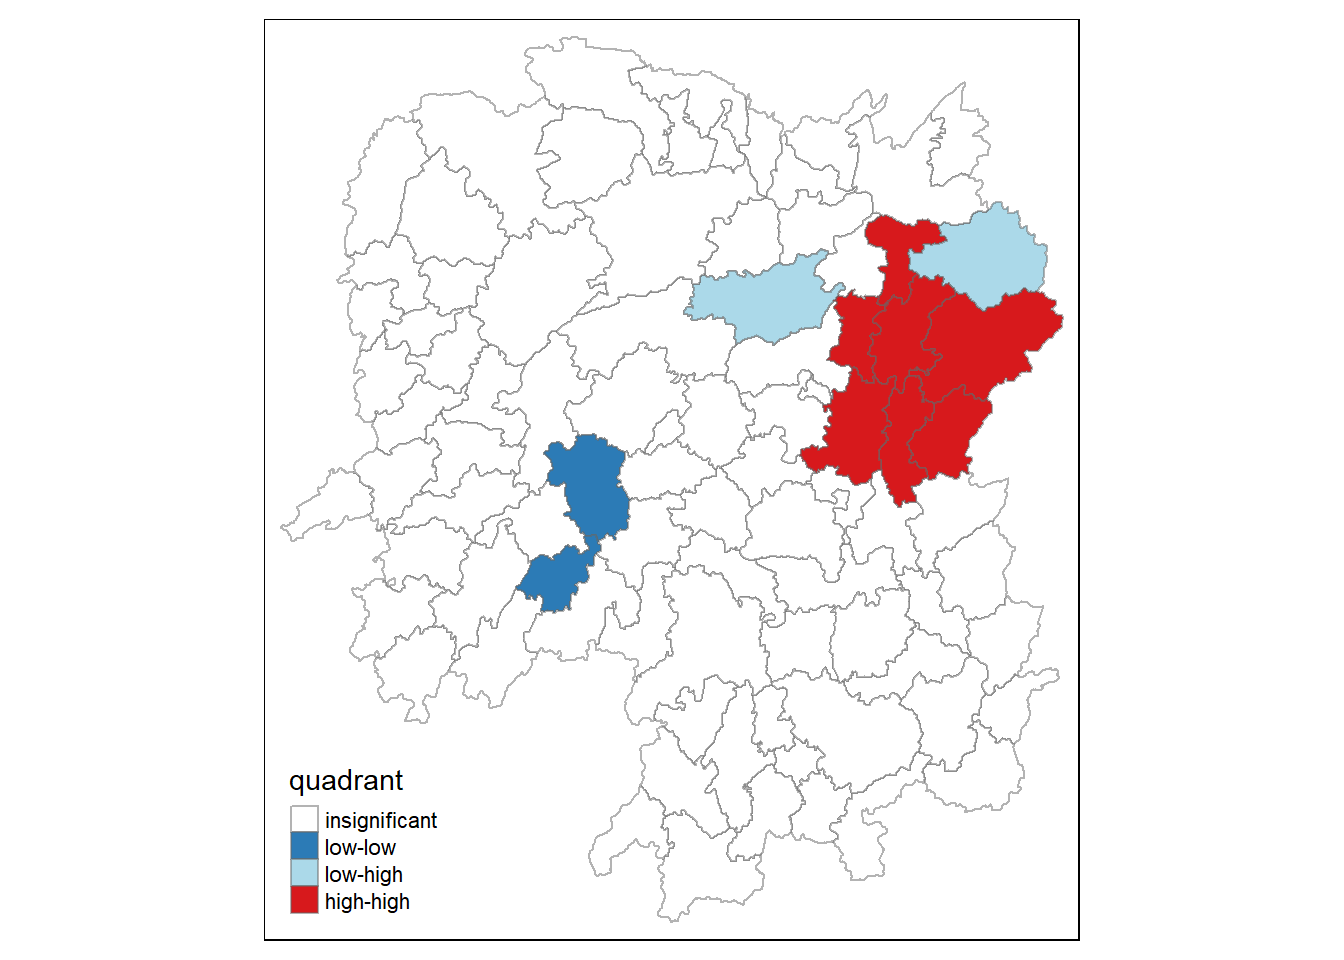
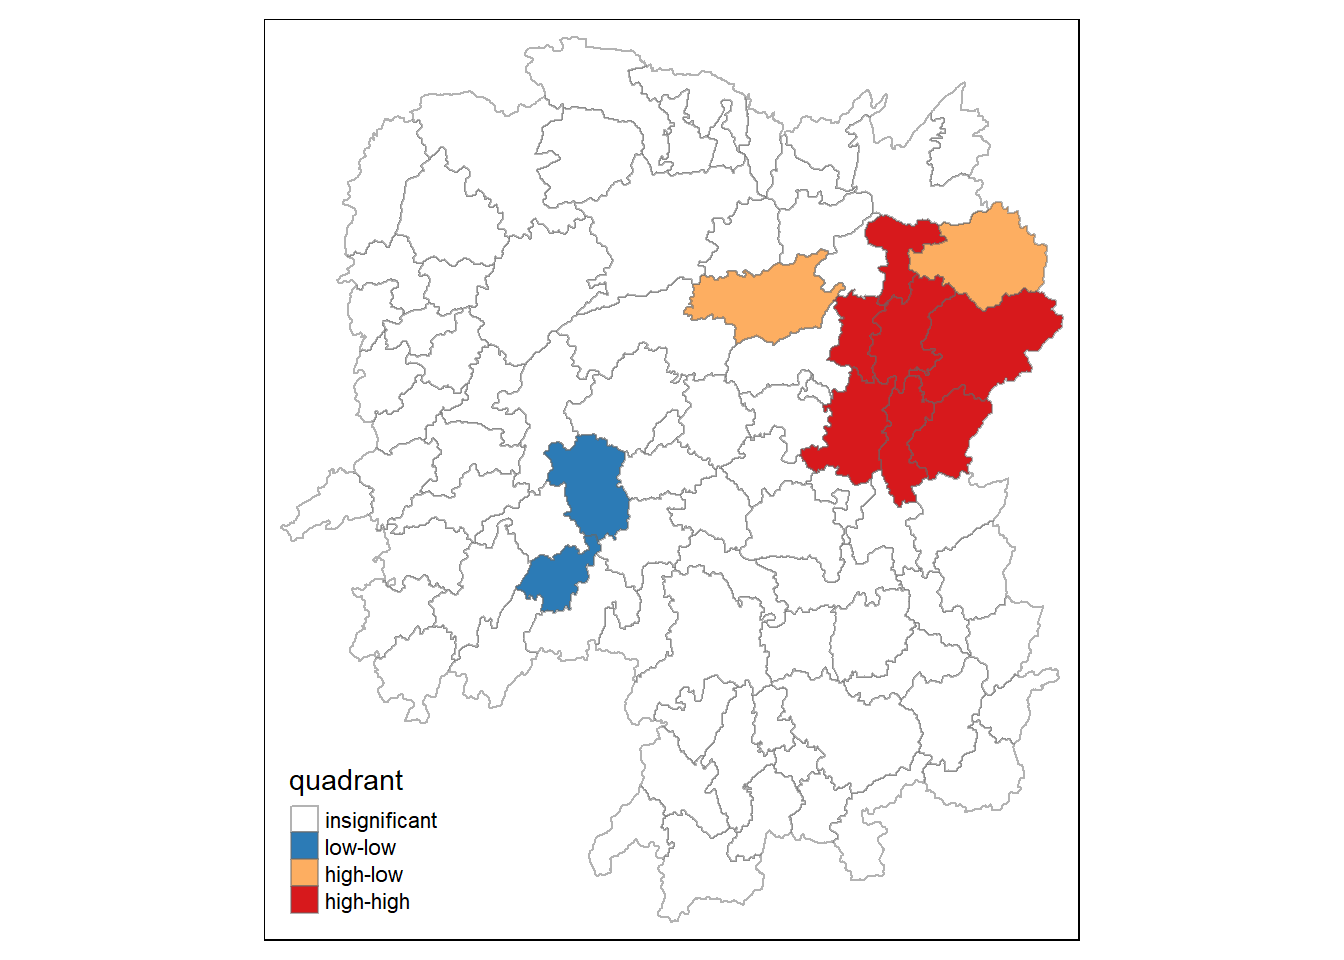
commit after editing hands-on 2b&c

Changed region(s): [[0.5, 0.25, 0.625, 0.375], [0.6562, 0.2188, 0.7812, 0.3438], [0.2188, 0.875, 0.3125, 0.9375]]

diff --git a/_site/Hands-on_Ex/Hands-on_Ex02B/Hands-on_Ex02B&C.html b/_site/Hands-on_Ex/Hands-on_Ex02B/Hands-on_Ex02B&C.html
@@ -380,7 +380,7 @@ code span.wa { color: #60a0b0; font-weight: bold; font-style: italic; } /* Warni
     <div>
     <div class="quarto-title-meta-heading">Modified</div>
     <div class="quarto-title-meta-contents">
-      <p class="date-modified">November 23, 2023</p>
+      <p class="date-modified">November 24, 2023</p>
     </div>
   </div>
     
@@ -572,6 +572,7 @@ W 88 7744 88 37.86334 365.9147</code></pre>
 <p>In this section, we will learn how to perform Moran’s I statistics testing by using <a href="https://r-spatial.github.io/spdep/reference/moran.test.html"><em>moran.test()</em></a> of <strong>spdep</strong>.</p>
 <section id="marons-i-test" class="level3">
 <h3 class="anchored" data-anchor-id="marons-i-test">4.3.1 Maron’s I test</h3>
+<p>Moran’s I describe how features differ from values in the study area as a whole.</p>
 <p>The code chunk below performs Moran’s I statistical testing using <a href="https://r-spatial.github.io/spdep/reference/moran.test.html"><em>moran.test()</em></a> of <strong>spdep</strong>.</p>
 <div class="cell">
 <div class="sourceCode cell-code" id="cb13"><pre class="sourceCode r code-with-copy"><code class="sourceCode r"><span id="cb13-1"><a href="#cb13-1" aria-hidden="true" tabindex="-1"></a><span class="fu">moran.test</span>(hunan<span class="sc">$</span>GDPPC, </span>
@@ -595,20 +596,25 @@ Moran I statistic       Expectation          Variance
 <blockquote class="blockquote">
 <p>Question: What statistical conclusion can you draw from the output above?</p>
 </blockquote>
-<div class="callout-note callout callout-style-default callout-captioned">
+<div class="callout-tip callout callout-style-default callout-captioned">
 <div class="callout-header d-flex align-content-center">
 <div class="callout-icon-container">
 <i class="callout-icon"></i>
 </div>
 <div class="callout-caption-container flex-fill">
-Note
+Learning Points
 </div>
 </div>
 <div class="callout-body-container callout-body">
-<p>The Moran’s I statistic is a value that ranges from -1 (indicating perfect dispersion) to +1 (perfect correlation). A value near 0 indicates a random spatial pattern. In this case, the Moran’s I value is approximately 0.30 which suggests a moderate positive spatial autocorrelation.</p>
-<p>Given the p-value of 1.095e-06, which is much smaller than 0.05, there is a strong evidence to reject the null hypothesis of no spatial autocorrelation. Thus, suggesting there is a statistically significant positive spatial autocorrelation.This means that areas with similar values of GDPPC are more likely to be located near each other than would be expected if the locations were randomly distributed.</p>
+<p>Moran I (z value) is:</p>
+<ul>
+<li><p>positive (I&gt;0): Clustered, observations tend to be similar;</p></li>
+<li><p>negative (I&lt;0): Dispersed, observations tend to be dissimilar;</p></li>
+<li><p>approximately 0: observations are arrange randomly over space.</p></li>
+</ul>
 </div>
 </div>
+<p>Given the p-value of 1.095e-06, is much smaller than 0.05, there is a strong evidence to reject the null hypothesis of no spatial autocorrelation. Thus, suggesting there is a statistically significant positive spatial autocorrelation.This means that areas with similar values of GDPPC are more likely to be located near each other than would be expected if the locations were randomly distributed.</p>
 <section id="computing-monte-carlo-morans-i" class="level4">
 <h4 class="anchored" data-anchor-id="computing-monte-carlo-morans-i">4.3.1.1 Computing Monte Carlo Moran’s I</h4>
 <p>The code chunk below performs permutation test for Moran’s I statistic by using <a href="https://r-spatial.github.io/spdep/reference/moran.mc.html"><em>moran.mc()</em></a> of <strong>spdep</strong>. A total of 1000 simulation will be performed.</p>
@@ -632,20 +638,10 @@ statistic = 0.30075, observed rank = 1000, p-value = 0.001
 alternative hypothesis: greater</code></pre>
 </div>
 </div>
+<blockquote class="blockquote">
 <p>Question: What statistical conclusion can you draw from the output above?</p>
-<div class="callout-note callout callout-style-default callout-captioned">
-<div class="callout-header d-flex align-content-center">
-<div class="callout-icon-container">
-<i class="callout-icon"></i>
-</div>
-<div class="callout-caption-container flex-fill">
-Note
-</div>
-</div>
-<div class="callout-body-container callout-body">
-<p>Given that the p-value is less than 0.05, we would reject the alternative hypothesis, which suggests that there is a greater level of spatial autocorrelation than would be expected by chance. This reinforces the previous conclusion that the GDPPC is not randomly distributed across the studied area, but rather exhibits significant positive spatial autocorrelation.</p>
-</div>
-</div>
+</blockquote>
+<p>Given that the p-value is less than 0.05, we would reject the null hypothesis, which suggests that there is a no spatial pattern. This reinforces the previous conclusion that the GDPPC is not randomly distributed across the studied area, but rather exhibits significant positive spatial autocorrelation.</p>
 </section>
 <section id="visualising-monte-carlo-morans-i" class="level4">
 <h4 class="anchored" data-anchor-id="visualising-monte-carlo-morans-i">4.3.1.2 Visualising Monte Carlo Moran’s I</h4>
@@ -703,7 +699,7 @@ Note
 </section>
 <section id="global-spatial-autocorrelation-gearys" class="level2">
 <h2 class="anchored" data-anchor-id="global-spatial-autocorrelation-gearys">4.4 Global Spatial Autocorrelation: Geary’s</h2>
-<p>In this section, we will learn how to perform Geary’s c statistics testing by using appropriate functions of <strong>spdep</strong> package.</p>
+<p>In this section, we will learn how to perform Geary’s c statistics testing by using appropriate functions of <strong>spdep</strong> package. Geary’s C describes how features differ from their immediate neighbours.</p>
 <section id="gearys-c-test" class="level3">
 <h3 class="anchored" data-anchor-id="gearys-c-test">4.3.1 Geary’s C test</h3>
 <p>The code chunk below performs Geary’s C test for spatial autocorrelation by using <a href="https://r-spatial.github.io/spdep/reference/geary.test.html"><em>geary.test()</em></a> of <strong>spdep</strong>.</p>
@@ -736,11 +732,15 @@ Learning Points
 </div>
 </div>
 <div class="callout-body-container callout-body">
-<p>The Geary C statistic ranges from 0 to 2, where:</p>
-<p>A value of 1 suggests no spatial autocorrelation. A value less than 1 indicates positive spatial autocorrelation (similarity between neighboring locations). A value greater than 1 indicates negative spatial autocorrelation (dissimilarity between neighboring locations).</p>
+<p>Geary c (Z value) is:</p>
+<ul>
+<li><p>Large c value (&gt;1): Dispersed, observations tend to be dissimilar;</p></li>
+<li><p>Small c value (&lt;1): Clustered, observations tend to be similar;</p></li>
+<li><p>c = 1: observations are arranged randomly over space.</p></li>
+</ul>
 </div>
 </div>
-<p>Given that the Geary C statistic (0.6907223) is less than 1, suggests positive spatial autocorrelation. This means that neighbouring areas tend to more similar in terms of GDPCC.</p>
+<p>Given that the Geary C statistic (0.6907223) is less than 1, suggests that neighbouring areas tend to more similar in terms of GDPCC.</p>
 <p>The p-values is also very small, less than 0.05, thus we would reject the null hypothesis of no spatial autocorrelation and conclude that there is statistically significant evidence of positive spatial autocorrelation in the data.</p>
 <section id="computing-monte-carlo-gearys-c" class="level4">
 <h4 class="anchored" data-anchor-id="computing-monte-carlo-gearys-c">4.3.1.1 Computing Monte Carlo Geary’s C</h4>
@@ -766,6 +766,7 @@ alternative hypothesis: greater</code></pre>
 <blockquote class="blockquote">
 <p>Question: What statistical conclusion can you draw from the output above?</p>
 </blockquote>
+<p>The p-values of 0.001 is less than 0.05, thus we would reject the null hypothesis of no spatial autocorrelation and conclude that there is statistically significant evidence of positive spatial autocorrelation in the data.</p>
 </section>
 <section id="visualising-the-monte-carlo-gearys-c" class="level4">
 <h4 class="anchored" data-anchor-id="visualising-the-monte-carlo-gearys-c">4.3.1.2 Visualising the Monte Carlo Geary’s C</h4>
@@ -815,7 +816,7 @@ alternative hypothesis: greater</code></pre>
 <p><img src="Hands-on_Ex02B-C_files/figure-html/unnamed-chunk-17-1.png" class="img-fluid" width="672"></p>
 </div>
 </div>
-<p>By plotting the output, it might not allow us to provide a complete interpretation. This is because not all autocorrelation values are statistically significant. Hence, it is important for us to examine the full analysis report by printing out the analysis results as in the code chunk below.</p>
+<p>By plotting the output, it might not provide us a complete interpretation. This is because not all autocorrelation values are statistically significant. Hence, it is important for us to examine the full analysis report by printing out the analysis results as in the code chunk below.</p>
 <div class="cell">
 <div class="sourceCode cell-code" id="cb37"><pre class="sourceCode r code-with-copy"><code class="sourceCode r"><span id="cb37-1"><a href="#cb37-1" aria-hidden="true" tabindex="-1"></a><span class="fu">print</span>(MI_corr)</span></code><button title="Copy to Clipboard" class="code-copy-button"><i class="bi"></i></button></pre></div>
 <div class="cell-output cell-output-stdout">
@@ -892,13 +893,13 @@ Signif. codes:  0 '***' 0.001 '**' 0.01 '*' 0.05 '.' 0.1 ' ' 1</code></pre>
 6 -0.038793829 -3.860263e-04 6.475559e-03 -0.47728835      0.6331568</code></pre>
 </div>
 </div>
-<div class="callout-tip callout callout-style-default callout-captioned">
+<div class="callout-note callout callout-style-default callout-captioned">
 <div class="callout-header d-flex align-content-center">
 <div class="callout-icon-container">
 <i class="callout-icon"></i>
 </div>
 <div class="callout-caption-container flex-fill">
-Learning points
+Note
 </div>
 </div>
 <div class="callout-body-container callout-body">
@@ -1140,8 +1141,8 @@ Zixing        -7.6849e-01 -8.8210e-02  9.4057e-01 -7.0144e-01         0.4830</co
 <p>These four command lines define the low-low (1), low-high (2), high-low (3) and high-high (4) categories.</p>
 <div class="cell">
 <div class="sourceCode cell-code" id="cb59"><pre class="sourceCode r code-with-copy"><code class="sourceCode r"><span id="cb59-1"><a href="#cb59-1" aria-hidden="true" tabindex="-1"></a>quadrant[DV <span class="sc">&lt;</span><span class="dv">0</span> <span class="sc">&amp;</span> LM_I<span class="sc">&gt;</span><span class="dv">0</span>] <span class="ot">&lt;-</span> <span class="dv">1</span></span>
-<span id="cb59-2"><a href="#cb59-2" aria-hidden="true" tabindex="-1"></a>quadrant[DV <span class="sc">&gt;</span><span class="dv">0</span> <span class="sc">&amp;</span> LM_I<span class="sc">&lt;</span><span class="dv">0</span>] <span class="ot">&lt;-</span> <span class="dv">2</span></span>
-<span id="cb59-3"><a href="#cb59-3" aria-hidden="true" tabindex="-1"></a>quadrant[DV <span class="sc">&lt;</span><span class="dv">0</span> <span class="sc">&amp;</span> LM_I<span class="sc">&lt;</span><span class="dv">0</span>] <span class="ot">&lt;-</span> <span class="dv">3</span>  </span>
+<span id="cb59-2"><a href="#cb59-2" aria-hidden="true" tabindex="-1"></a>quadrant[DV <span class="sc">&lt;</span><span class="dv">0</span> <span class="sc">&amp;</span> LM_I<span class="sc">&lt;</span><span class="dv">0</span>] <span class="ot">&lt;-</span> <span class="dv">2</span> </span>
+<span id="cb59-3"><a href="#cb59-3" aria-hidden="true" tabindex="-1"></a>quadrant[DV <span class="sc">&gt;</span><span class="dv">0</span> <span class="sc">&amp;</span> LM_I<span class="sc">&lt;</span><span class="dv">0</span>] <span class="ot">&lt;-</span> <span class="dv">3</span></span>
 <span id="cb59-4"><a href="#cb59-4" aria-hidden="true" tabindex="-1"></a>quadrant[DV <span class="sc">&gt;</span><span class="dv">0</span> <span class="sc">&amp;</span> LM_I<span class="sc">&gt;</span><span class="dv">0</span>] <span class="ot">&lt;-</span> <span class="dv">4</span>      </span></code><button title="Copy to Clipboard" class="code-copy-button"><i class="bi"></i></button></pre></div>
 </div>
 <p>Lastly, places non-significant Moran in the category 0.</p>
@@ -1156,8 +1157,8 @@ Zixing        -7.6849e-01 -8.8210e-02  9.4057e-01 -7.0144e-01         0.4830</co
 <span id="cb61-4"><a href="#cb61-4" aria-hidden="true" tabindex="-1"></a>LM_I <span class="ot">&lt;-</span> localMI[,<span class="dv">1</span>]   </span>
 <span id="cb61-5"><a href="#cb61-5" aria-hidden="true" tabindex="-1"></a>signif <span class="ot">&lt;-</span> <span class="fl">0.05</span>       </span>
 <span id="cb61-6"><a href="#cb61-6" aria-hidden="true" tabindex="-1"></a>quadrant[DV <span class="sc">&lt;</span><span class="dv">0</span> <span class="sc">&amp;</span> LM_I<span class="sc">&gt;</span><span class="dv">0</span>] <span class="ot">&lt;-</span> <span class="dv">1</span></span>
-<span id="cb61-7"><a href="#cb61-7" aria-hidden="true" tabindex="-1"></a>quadrant[DV <span class="sc">&gt;</span><span class="dv">0</span> <span class="sc">&amp;</span> LM_I<span class="sc">&lt;</span><span class="dv">0</span>] <span class="ot">&lt;-</span> <span class="dv">2</span></span>
-<span id="cb61-8"><a href="#cb61-8" aria-hidden="true" tabindex="-1"></a>quadrant[DV <span class="sc">&lt;</span><span class="dv">0</span> <span class="sc">&amp;</span> LM_I<span class="sc">&lt;</span><span class="dv">0</span>] <span class="ot">&lt;-</span> <span class="dv">3</span>  </span>
+<span id="cb61-7"><a href="#cb61-7" aria-hidden="true" tabindex="-1"></a>quadrant[DV <span class="sc">&lt;</span><span class="dv">0</span> <span class="sc">&amp;</span> LM_I<span class="sc">&lt;</span><span class="dv">0</span>] <span class="ot">&lt;-</span> <span class="dv">2</span> </span>
+<span id="cb61-8"><a href="#cb61-8" aria-hidden="true" tabindex="-1"></a>quadrant[DV <span class="sc">&gt;</span><span class="dv">0</span> <span class="sc">&amp;</span> LM_I<span class="sc">&lt;</span><span class="dv">0</span>] <span class="ot">&lt;-</span> <span class="dv">3</span></span>
 <span id="cb61-9"><a href="#cb61-9" aria-hidden="true" tabindex="-1"></a>quadrant[DV <span class="sc">&gt;</span><span class="dv">0</span> <span class="sc">&amp;</span> LM_I<span class="sc">&gt;</span><span class="dv">0</span>] <span class="ot">&lt;-</span> <span class="dv">4</span>    </span>
 <span id="cb61-10"><a href="#cb61-10" aria-hidden="true" tabindex="-1"></a>quadrant[localMI[,<span class="dv">5</span>]<span class="sc">&gt;</span>signif] <span class="ot">&lt;-</span> <span class="dv">0</span></span></code><button title="Copy to Clipboard" class="code-copy-button"><i class="bi"></i></button></pre></div>
 </div>

diff --git a/_site/index.html b/_site/index.html
@@ -276,7 +276,7 @@ ul.task-list li input[type="checkbox"] {
 
 <div class="quarto-listing quarto-listing-container-grid" id="listing-listing">
 <div class="list grid quarto-listing-cols-3">
-<div class="g-col-1" data-index="0" data-listing-date-sort="1700323200000" data-listing-file-modified-sort="1700754529267" data-listing-reading-time-sort="25.425">
+<div class="g-col-1" data-index="0" data-listing-date-sort="1700323200000" data-listing-file-modified-sort="1700790225543" data-listing-reading-time-sort="25.545">
 <a href="./Hands-on_Ex/Hands-on_Ex02B/Hands-on_Ex02B&amp;C.html" class="quarto-grid-link">
 <div class="quarto-grid-item card h-100 card-left">
 <div class="card-body post-contents">
